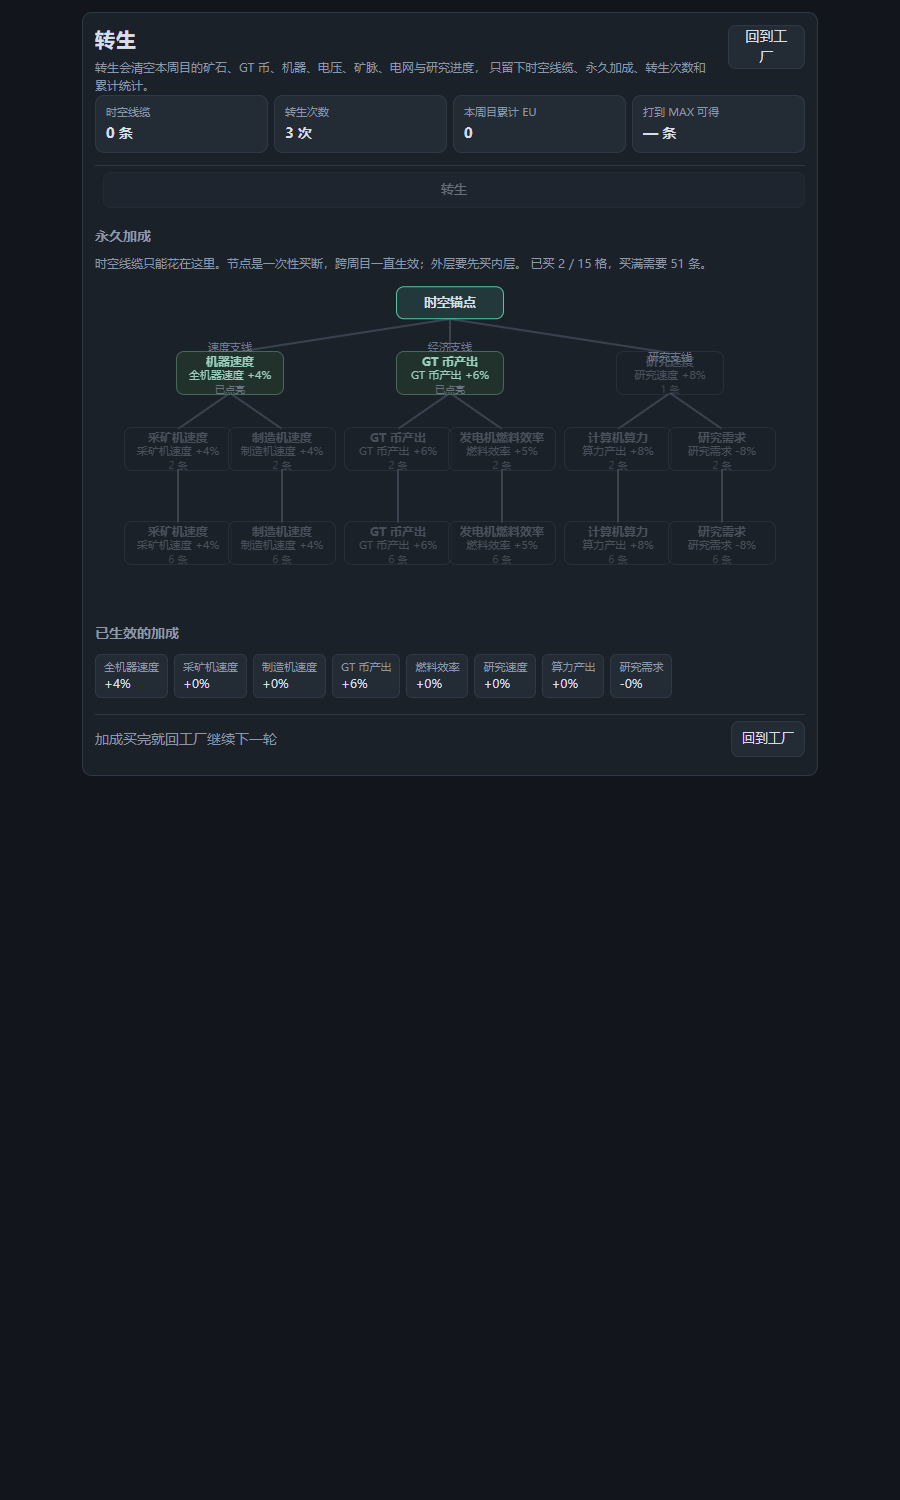
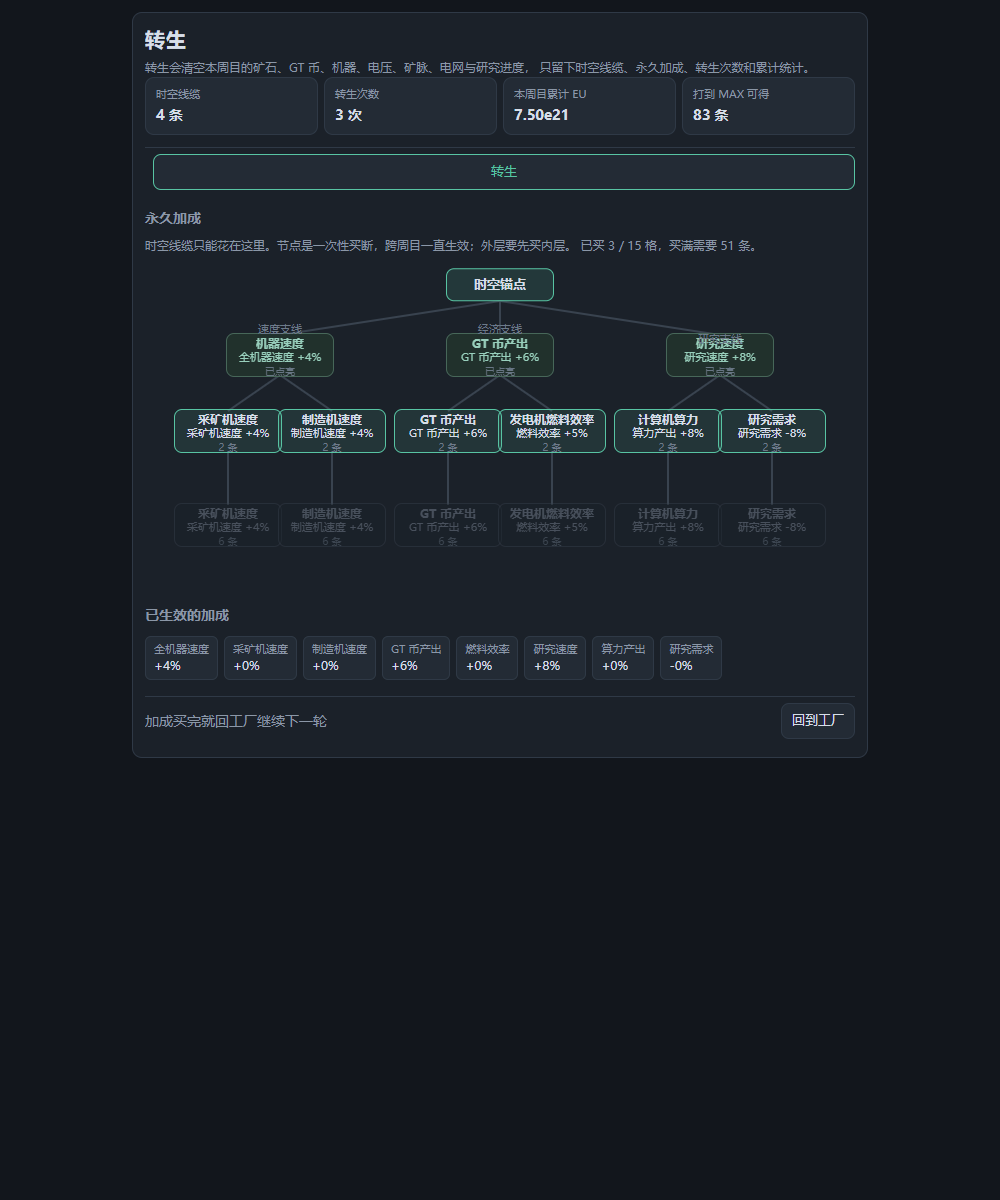
转生页去掉右上角的返回按钮，只留底部那一个
顶部改成标题加一行说明，返回入口统一放在页面底部（加成买完之后顺手点）。顺带把 status.md 里「主界面顶部一行入口」的旧说法改成第 2 页。

diff --git a/src/components/RebirthPage.vue b/src/components/RebirthPage.vue
@@ -60,16 +60,11 @@ function nodeClass(node: RebirthNodeRow) {
 
 <template>
   <section class="panel rebirth-page">
-    <div class="rebirth-head">
-      <div>
-        <h1>转生</h1>
-        <p class="muted small" style="margin: 4px 0 0">
-          转生会清空本周目的矿石、GT 币、机器、电压、矿脉、电网与研究进度，
-          只留下时空线缆、永久加成、转生次数和累计统计。
-        </p>
-      </div>
-      <button @click="emit('close')">回到工厂</button>
-    </div>
+    <h1>转生</h1>
+    <p class="muted small" style="margin: 4px 0 0">
+      转生会清空本周目的矿石、GT 币、机器、电压、矿脉、电网与研究进度，
+      只留下时空线缆、永久加成、转生次数和累计统计。
+    </p>
 
     <div class="power-row">
       <div class="power-box static">

diff --git a/src/style.css b/src/style.css
@@ -639,14 +639,7 @@ h1 .small {
   max-width: 760px;
 }
 
-.rebirth-head {
-  display: flex;
-  align-items: flex-start;
-  justify-content: space-between;
-  gap: 16px;
-}
-
-.rebirth-head h1 {
+.rebirth-page h1 {
   margin: 0;
   font-size: 20px;
 }

diff --git a/docs/status.md b/docs/status.md
@@ -84,7 +84,7 @@ GTNH（GregTech: New Horizons）主题的增量 / 放置游戏：从超低压 UL
   满树 51 条；效果分机器速度、GT 币产出、发电机燃料效率、算力产出、研究速度、研究需求
 - 界面是**独立的转生页面**：进页面后工厂内容一律不渲染，页面里只有线缆余额、转生次数、
   本周目累计 EU、打到 MAX 可得多少条、转生按钮、加成树（SVG 连线 + 节点卡片）与
-  已生效加成汇总；主界面顶部一行入口进入，裂缝转生成功后自动进入
+  已生效加成汇总；第 2 页上的入口进入，裂缝转生成功后自动进入
 - 存档升到 v7（线缆、加成节点、转生次数、本周目与历史累计 EU）
 
 ## 5. 接下来：第三阶段（终局与转生）
